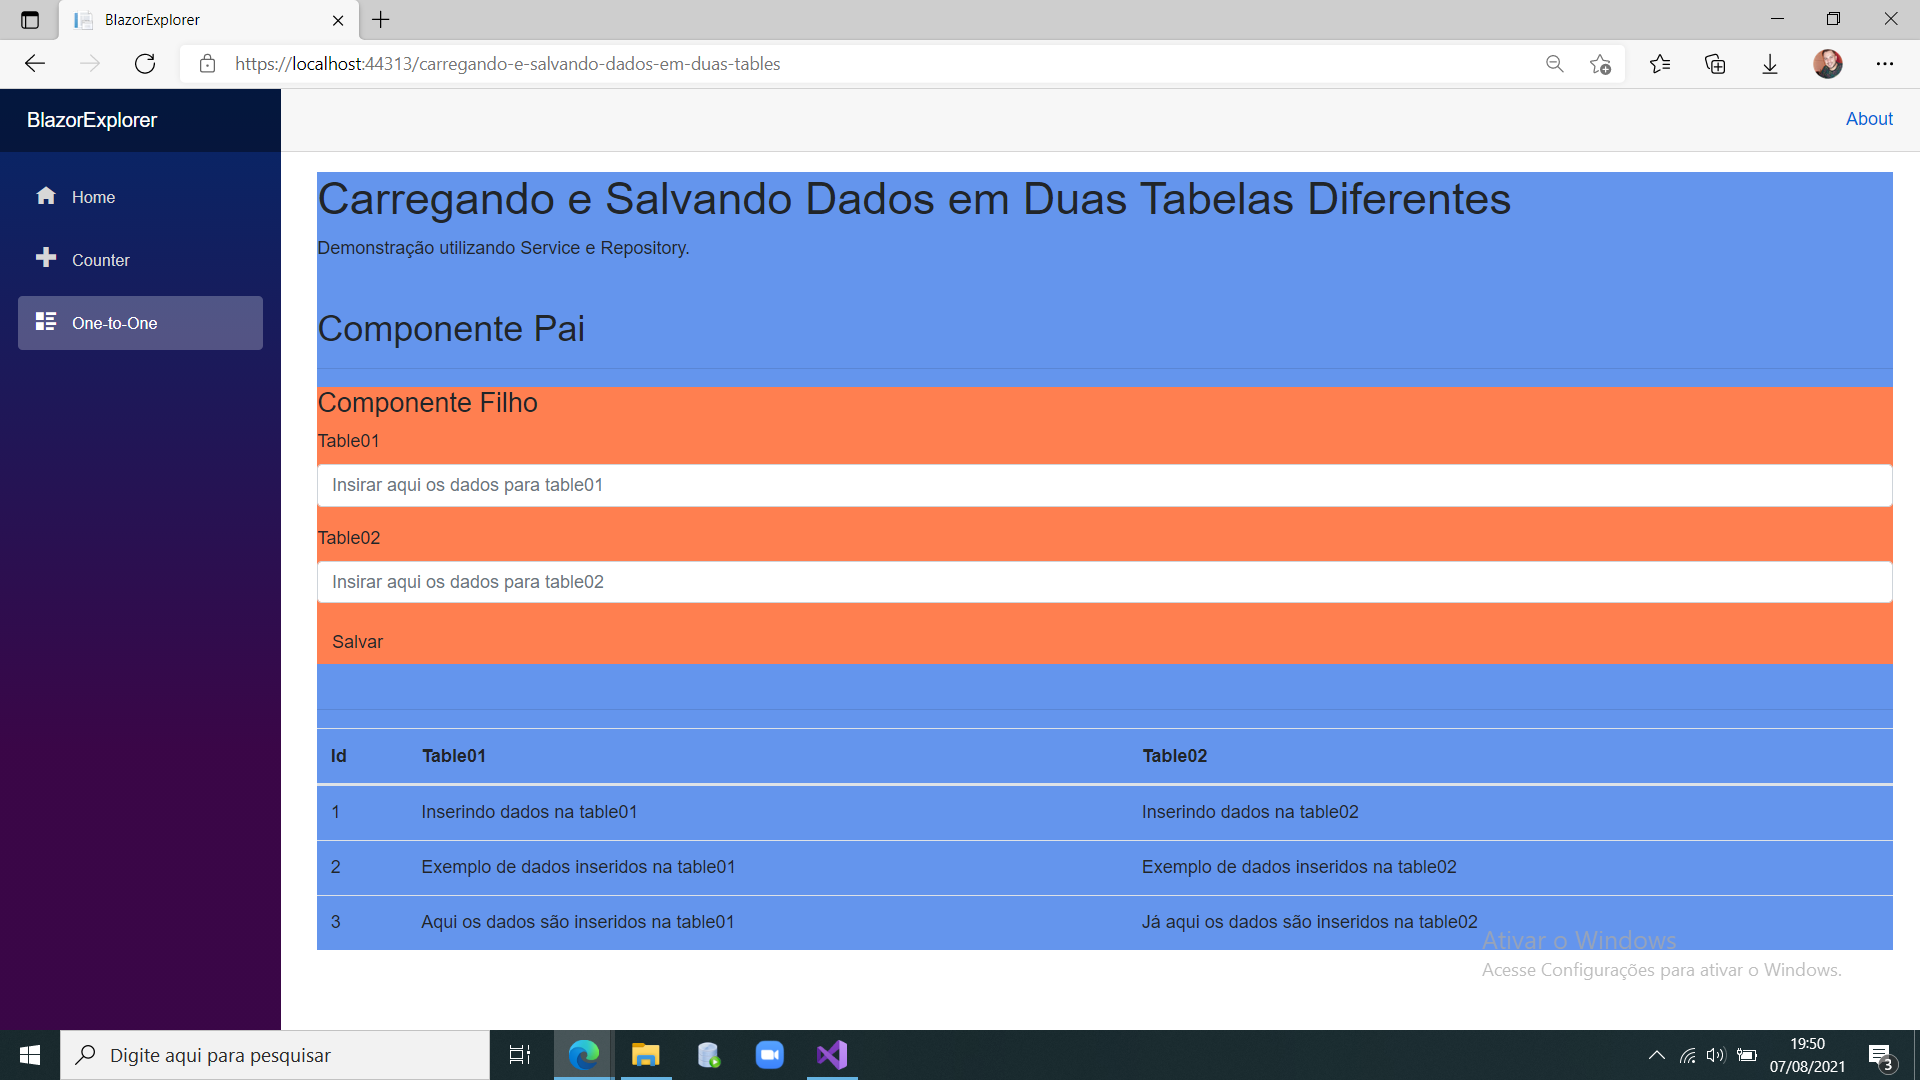
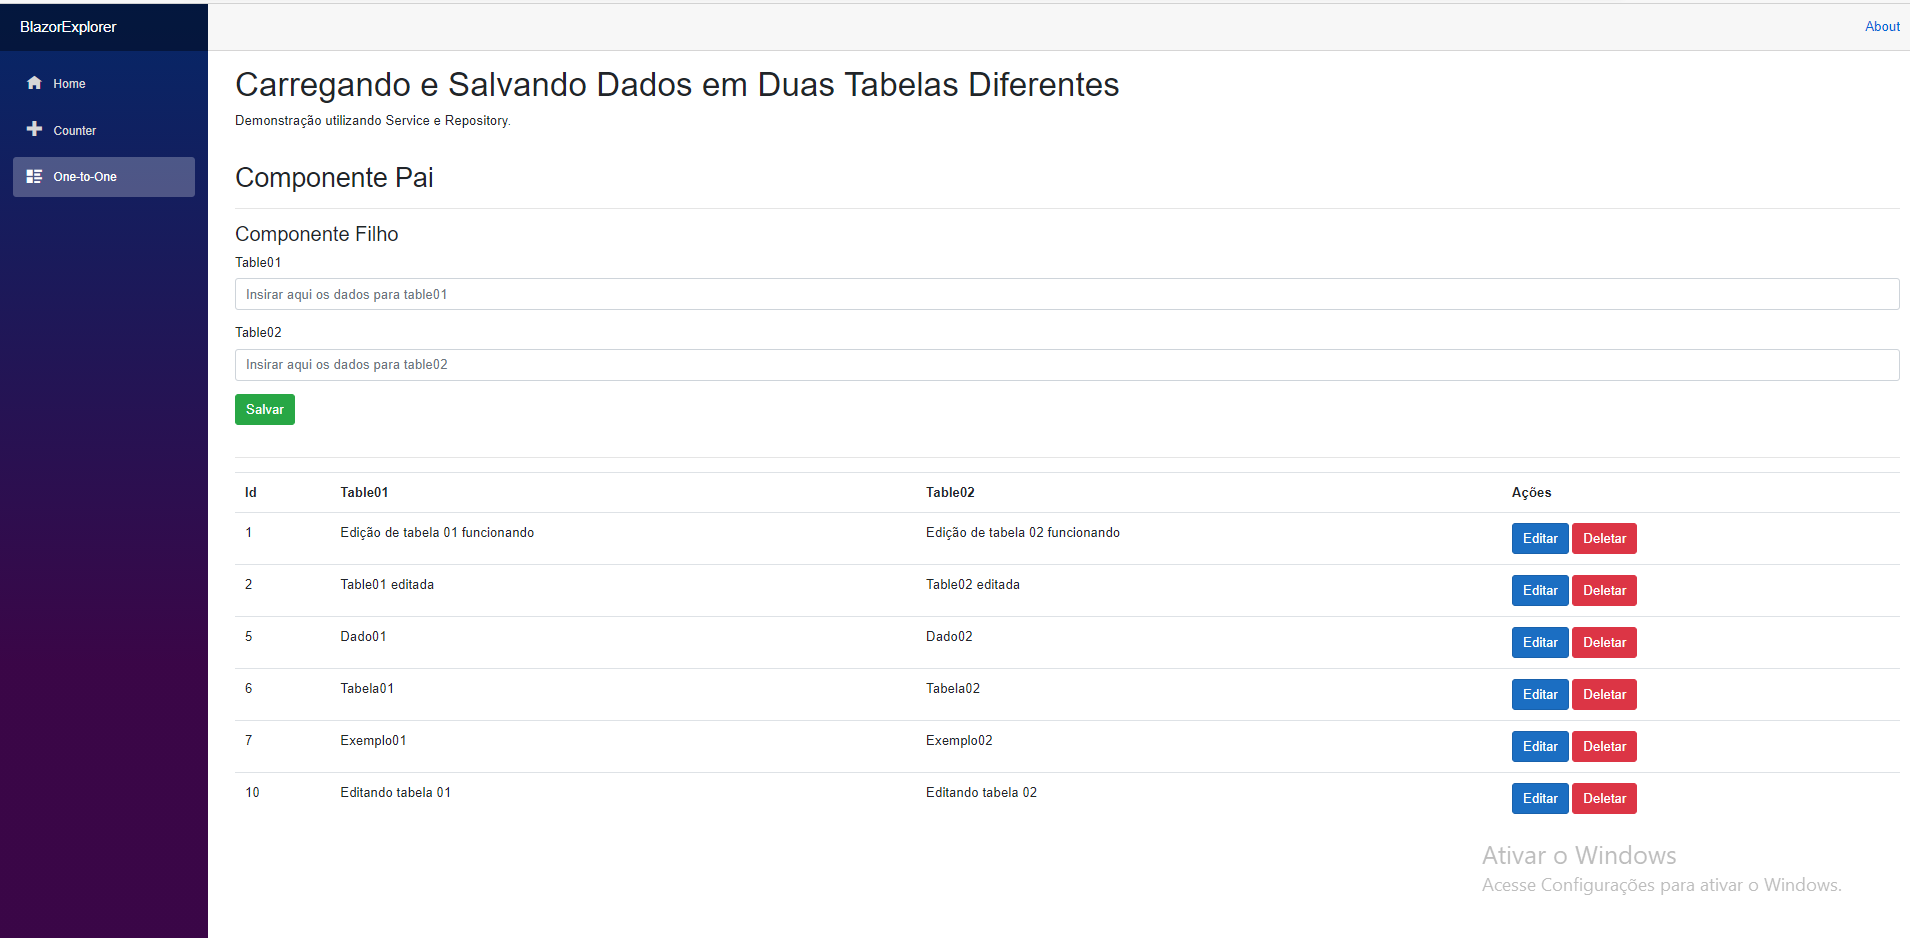
Metódos de Edit e Delete incluídos

diff --git a/BlazorExplorer/Repositories/Table01Repository.cs b/BlazorExplorer/Repositories/Table01Repository.cs
@@ -24,11 +24,34 @@ namespace BlazorExplorer.Repositories
                                          .ToListAsync();
         }
 
+        public async Task<Table01> GetById(int Id)
+        {
+            var verificaTable01 = await context.Table01s.SingleOrDefaultAsync(t => t.Id == Id);
+            return verificaTable01;
+        }
+
         public async Task<Table01> AddTable01(Table01 table01)
         {
-            await context.Table01s.AddAsync(table01);
+            if(table01.Id == 0)
+            {
+                await context.Table01s.AddAsync(table01);
+            }
+            context.Table01s.Update(table01);
+            
             await context.SaveChangesAsync();
             return table01;
+        }
+
+        public async Task<Table01> DeleteTable01(int Id)
+        {
+            var verificaTable01 = await context.Table01s.SingleOrDefaultAsync(t => t.Id == Id);
+
+            if(verificaTable01 != null)
+            {
+                context.Table01s.Remove(verificaTable01);
+                await context.SaveChangesAsync();
+            }
+            return verificaTable01;
         }
     }
 }

diff --git a/BlazorExplorer/Services/Table01Service.cs b/BlazorExplorer/Services/Table01Service.cs
@@ -21,10 +21,27 @@ namespace BlazorExplorer.Services
             return await table01Repository.GetAll();
         }
 
+        public async Task<Table01> GetById(int id)
+        {
+            var verificaTable01 = await table01Repository.GetById(id);
+            return verificaTable01;
+        }
+
         public async Task<Table01> AddTable01(Table01 table01)
         {
             var novoTable01 = await table01Repository.AddTable01(table01);
             return novoTable01;
+        }
+
+        public async Task<Table01> DeleteTable01(int id)
+        {
+            var verificaTable01 = await table01Repository.GetById(id);
+            
+            if (verificaTable01 != null)
+            {
+                await table01Repository.DeleteTable01(id);
+            }
+            return verificaTable01;
         }
     }
 }

diff --git a/BlazorExplorer/Repositories/ITable01Repository.cs b/BlazorExplorer/Repositories/ITable01Repository.cs
@@ -7,6 +7,8 @@ namespace BlazorExplorer.Repositories
     public interface ITable01Repository
     {
         Task<Table01> AddTable01(Table01 table01);
+        Task<Table01> DeleteTable01(int Id);
         Task<List<Table01>> GetAll();
+        Task<Table01> GetById(int Id);
     }
 }

diff --git a/BlazorExplorer/Services/ITable01Service.cs b/BlazorExplorer/Services/ITable01Service.cs
@@ -7,6 +7,8 @@ namespace BlazorExplorer.Services
     public interface ITable01Service
     {
         Task<Table01> AddTable01(Table01 table01);
+        Task<Table01> DeleteTable01(int id);
         Task<List<Table01>> GetAll();
+        Task<Table01> GetById(int id);
     }
 }

diff --git a/README.md b/README.md
@@ -1,5 +1,5 @@
 # Explorando Blazor
 
-### Como carregar e salvar dados em duas tabelas diferentes(one-to-one) usando componentes pai e filho com o padrão Service e Repository.
+### CRUD em Duas Tabelas Diferentes(one-to-one) usando componentes pai e filho com o padrão Service e Repository.
 
 ![N|Solid](https://i.postimg.cc/3NpcS9WP/image.png)
